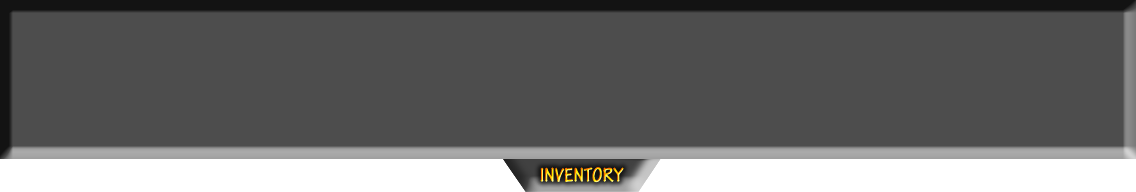
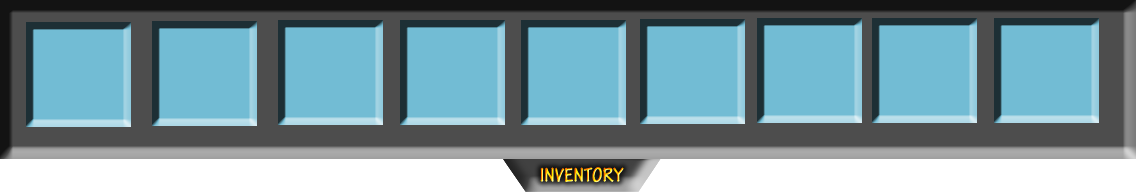
NOOOPOOOOOO

diff --git a/MissTaryGame/MissTaryGame/Entities/Inventory.cs b/MissTaryGame/MissTaryGame/Entities/Inventory.cs
@@ -1,0 +1,69 @@
+using System;
+using System.IO;
+using System.Collections.Generic;
+using Indigo;
+using Indigo.Core;
+using Indigo.Graphics;
+
+namespace MissTaryGame.Entities
+{
+	/// <summary>
+	/// Description of Inventory.
+	/// </summary>
+	public class Inventory : Entity
+	{
+//		Dictionary<string, Image> images = new Dictionary<string, Image>();
+		Image tabBackground;
+		Image leftArrow;
+		Image rightArrow;
+		
+		List<Point> itemPostions = new List<Point>();
+		int itemSlots = 9;
+		int itemPage = 0;
+		
+		bool active = false;
+		public bool Active
+		{
+			get
+			{
+				return active;
+			}
+			set
+			{
+				tabBackground.X = -tabBackground.Height + 32;
+				rightArrow.Visible = leftArrow.Visible = active;
+				active = value;
+			}
+		}
+		
+		Avatar avatar;
+		public Inventory(Avatar avatar)
+		{
+			this.avatar = avatar;
+			tabBackground = new Image(Library.GetTexture("ontent/UI/Inventory/InventoryTab.png"));
+			leftArrow = new Image(Library.GetTexture("ontent/UI/Inventory/InventoryButtonLeft.png"));
+			rightArrow = new Image(Library.GetTexture("ontent/UI/Inventory/InventoryButtonRight.png"));
+			
+			itemPostions.Add(new Point(77, 72));
+			itemPostions.Add(new Point(206, 72));
+			itemPostions.Add(new Point(332, 72));
+			itemPostions.Add(new Point(452, 72));
+			itemPostions.Add(new Point(576, 72));
+			itemPostions.Add(new Point(693, 72));
+			itemPostions.Add(new Point(809, 72));
+			itemPostions.Add(new Point(925, 72));
+			itemPostions.Add(new Point(1046, 72));
+			
+//			foreach(string path in Utility.RetrieveFilePathForFilesInDirectory("content/UI/Inventory"))
+//			{
+//				images.Add(Path.GetFileNameWithoutExtension(path), new Image(Library.GetTexture(path)));
+//			}
+		}
+		
+		public override void Update()
+		{
+			base.Update();
+			
+		}
+	}
+}

diff --git a/MissTaryGame/MissTaryGame/Worlds/DynamicSceneWorld.cs b/MissTaryGame/MissTaryGame/Worlds/DynamicSceneWorld.cs
@@ -45,10 +45,10 @@ namespace MissTaryGame
 				var clickedObject = (InteractiveObject)this.CollidePoint(InteractiveObject.INTERACTIVE_ENTITY_TYPE, Mouse.ScreenX, Mouse.ScreenY);
 				if(clickedObject != null)
 				{
-					CommandWheel wheel = new CommandWheel(clickedObject.MetaData.Commands);
-					Add(wheel);
+					Add(new CommandWheel(clickedObject.MetaData.Commands));
+					avatar.Inventory.Add(clickedObject);
 				}
-				Console.WriteLine(clickedObject);
+//				Console.WriteLine(clickedObject);
 			}
 			
 			if(Keyboard.Q.Pressed)

diff --git a/MissTaryGame/MissTaryGame/Entities/Avatar.cs b/MissTaryGame/MissTaryGame/Entities/Avatar.cs
@@ -16,6 +16,7 @@ namespace MissTaryGame
 		private float walkToY = 0;
 		private bool IsMoving = false;
 		private int lastFootFrame = 0;
+		public List<InteractiveObject> Inventory = new List<InteractiveObject>();
 		
 		public Avatar(InteractiveObjectData metaData, string objectName)
 			:base(metaData, objectName)

diff --git a/MissTaryGame/MissTaryGame/Program.cs b/MissTaryGame/MissTaryGame/Program.cs
@@ -29,7 +29,7 @@ namespace MissTaryGame
 			FP.Screen.ClearColor = FP.Color(0x000000);
 			Mouse.CursorVisible = false;
 			
-			SoundManager.Init(0.8f);
+			SoundManager.Init(0.7f);
 			//SoundManager.Init(0);
 			FP.World = new DynamicSceneWorld();
 			//FP.World = new StartScreenWorld();
